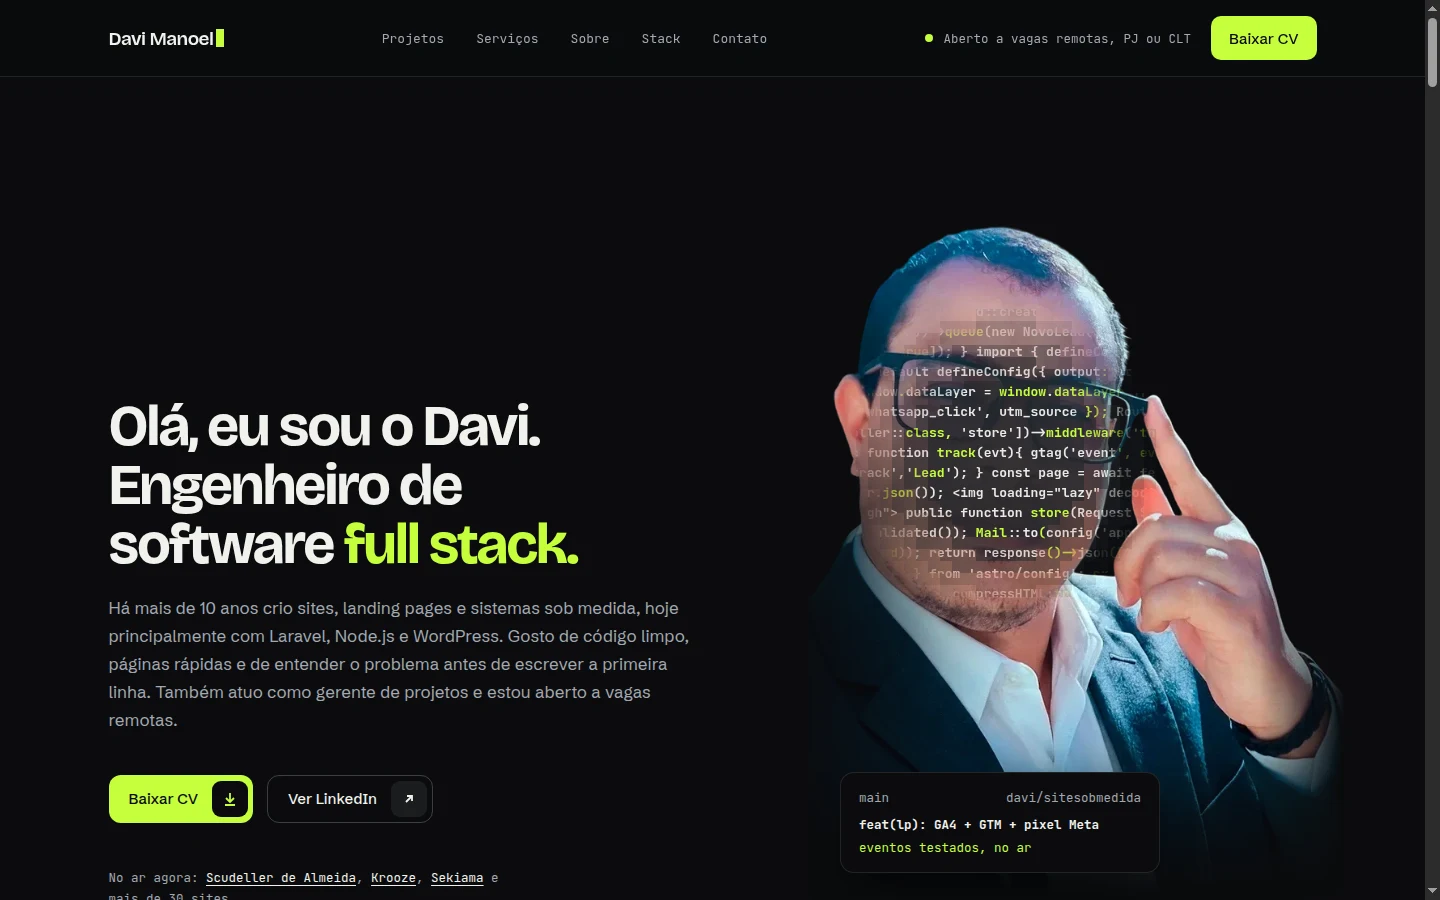
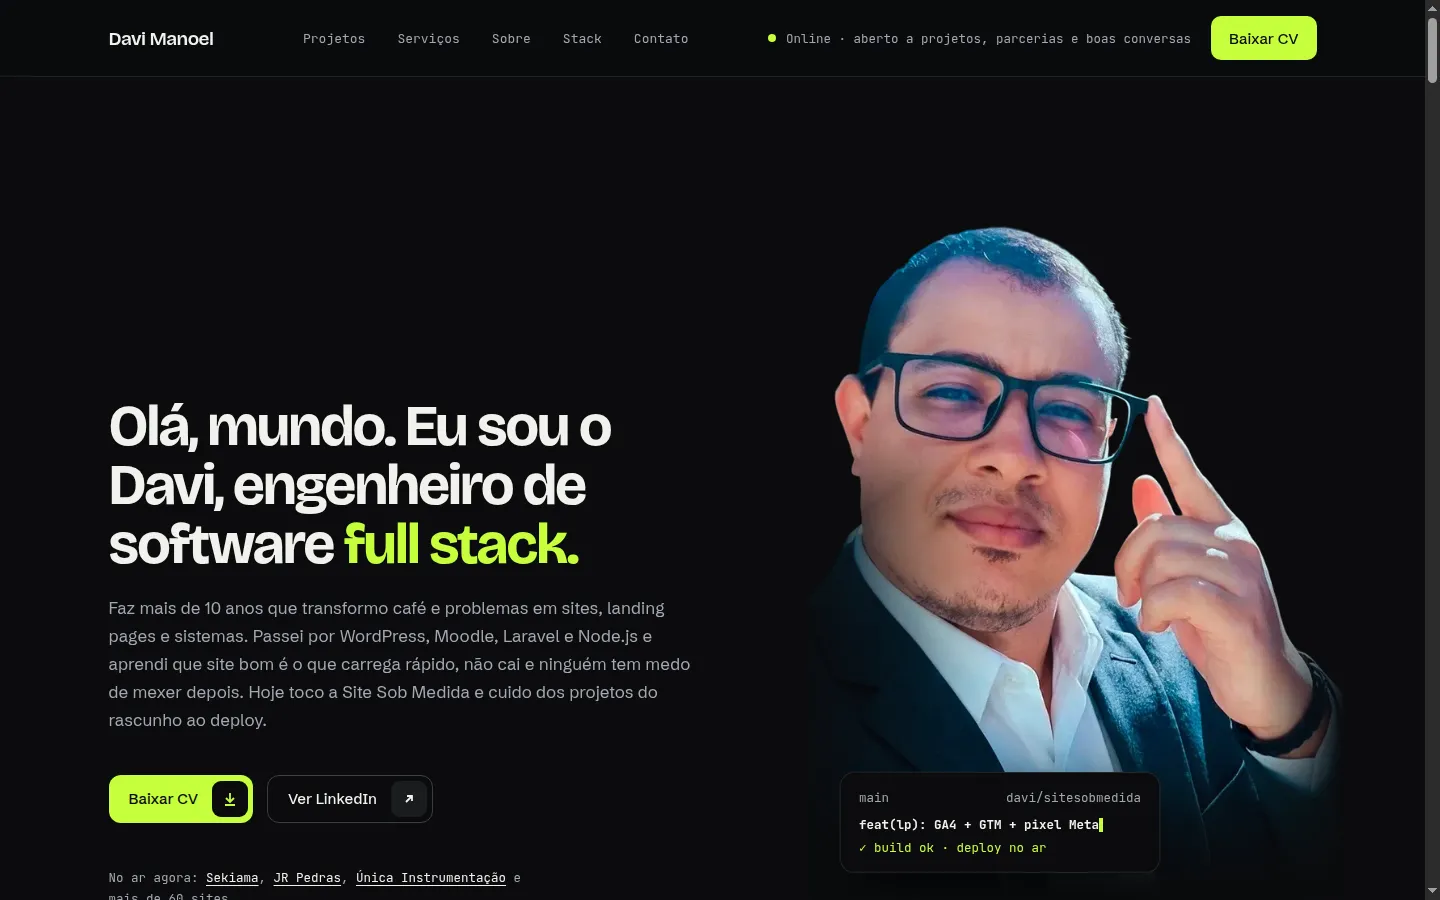
feat: update images, enhance 404 page with terminal-style error message, and improve site metadata handling

diff --git a/src/styles/global.css b/src/styles/global.css
@@ -76,6 +76,8 @@ main:focus { outline: none; }
    ================================================================== */
 
 .btn { white-space: nowrap; display: inline-flex; align-items: center; gap: 14px; min-height: 48px; padding: 5px 5px 5px 20px; border-radius: 12px; font-size: 15px; font-weight: 500; text-decoration: none; transition: transform 0.35s var(--ease), box-shadow 0.35s var(--ease), background 0.2s, border-color 0.2s; }
+/* sem ícone, o respiro da direita fica igual ao da esquerda */
+.btn:not(.btn-sm):not(:has(.ic)) { padding-right: 20px; }
 .btn .ic { width: 36px; height: 36px; border-radius: 9px; display: grid; place-items: center; transition: transform 0.35s var(--ease); }
 .btn:hover .ic { transform: translateX(4px); }
 .dm .btn-lime, .dm .btn-lime:hover { background: var(--lime); color: var(--on-lime); }
@@ -415,6 +417,30 @@ details.acc summary:hover .ttl { color: var(--lime); }
 .footer-bottom { display: flex; flex-wrap: wrap; justify-content: space-between; gap: 12px; margin-top: 72px; padding: 22px 0; border-top: 1px solid var(--line); }
 .clock { color: var(--ink); }
 .giant { font-family: var(--f-display); font-weight: 700; letter-spacing: -0.06em; font-size: clamp(64px, 13vw, 200px); line-height: 0.78; margin: 16px 0 0; white-space: nowrap; text-align: center; color: var(--lime); }
+
+/* ==================================================================
+   Página 404 (terminal com o git checkout que falhou)
+   ================================================================== */
+
+.nf {
+  min-height: 100svh;
+  display: flex;
+  background-image:
+    radial-gradient(50% 45% at 80% 28%, rgba(198, 255, 61, 0.07), transparent 70%),
+    linear-gradient(var(--line) 1px, transparent 1px),
+    linear-gradient(90deg, var(--line) 1px, transparent 1px);
+  background-size: auto, 48px 48px, 48px 48px;
+}
+.nf-in { flex: 1; display: flex; flex-direction: column; gap: 48px; width: 100%; padding-top: 16px; padding-bottom: 28px; }
+.nf-body { margin: auto 0; max-width: 780px; }
+.nf-code { font-size: clamp(112px, 20vw, 280px); line-height: 0.8; letter-spacing: -0.06em; color: var(--lime); }
+.nf-title { font-size: clamp(32px, 4.4vw, 60px); line-height: 1.02; margin-top: 28px; }
+.nf-term { margin-top: 36px; border: 1px solid var(--line-strong); border-radius: 14px; background: #121418; overflow: hidden; box-shadow: 0 30px 60px -28px rgba(0, 0, 0, 0.9); }
+.nf-term-head { display: flex; align-items: center; gap: 14px; height: 38px; padding: 0 14px; background: #1b1e23; border-bottom: 1px solid var(--line); font-family: var(--f-mono); font-size: 12px; color: var(--mute); }
+.nf-term-body { margin: 0; padding: 18px 20px; font-family: var(--f-mono); font-size: 14px; line-height: 1.8; color: var(--ink); white-space: pre-wrap; overflow-wrap: anywhere; }
+.nf-err { color: var(--mute); }
+.nf .actions { margin-top: 36px; }
+.nf-foot { margin: 0; }
 
 /* ==================================================================
    Responsivo e movimento reduzido

diff --git a/src/data/site.ts b/src/data/site.ts
@@ -274,7 +274,7 @@ export const CAREER = [
   },
   {
     from: '2017',
-    to: '2025',
+    to: 'hoje',
     hash: '3c88e17',
     where: 'Freelancer',
     role: 'Desenvolvedor full stack',

diff --git a/README.md b/README.md
@@ -1,6 +1,6 @@
 <div align="center">
 
-<img src=".github/assets/desktop-hero.webp" alt="Página inicial do site: à esquerda o título “Olá, eu sou o Davi. Engenheiro de software full stack.”; à direita a foto do Davi com trechos de código revelados sob o cursor." width="100%">
+<img src=".github/assets/desktop-hero.webp" alt="Página inicial do site: à esquerda o título “Olá, mundo. Eu sou o Davi, engenheiro de software full stack.”; à direita a foto do Davi e um cartão de commit com “build ok · deploy no ar”." width="100%">
 
 # Davi Manoel · site pessoal
 
@@ -9,8 +9,8 @@ feito para carregar rápido até no 4G.
 
 [![Astro 7](https://img.shields.io/badge/Astro-7-0b0c0e?style=flat-square&logo=astro&logoColor=c6ff3d)](https://astro.build)
 [![TypeScript strict](https://img.shields.io/badge/TypeScript-strict-0b0c0e?style=flat-square&logo=typescript&logoColor=c6ff3d)](tsconfig.json)
-[![JS no navegador](https://img.shields.io/badge/JS_no_navegador-2%2C3_kB-c6ff3d?style=flat-square&labelColor=0b0c0e)](#em-números)
-[![Primeira carga](https://img.shields.io/badge/primeira_carga-252_kB-c6ff3d?style=flat-square&labelColor=0b0c0e)](#em-números)
+[![JS no navegador](https://img.shields.io/badge/JS_no_navegador-2%2C9_kB-c6ff3d?style=flat-square&labelColor=0b0c0e)](#em-números)
+[![Primeira carga](https://img.shields.io/badge/primeira_carga-278_kB-c6ff3d?style=flat-square&labelColor=0b0c0e)](#em-números)
 [![Node](https://img.shields.io/badge/node-%E2%89%A522.23-0b0c0e?style=flat-square&logo=nodedotjs&logoColor=c6ff3d)](.nvmrc)
 
 [LinkedIn](https://www.linkedin.com/in/davi-manoel/) · [Site Sob Medida](https://www.sitesobmedida.com.br/) · [GitHub](https://github.com/sondavi1991)
@@ -25,20 +25,20 @@ Medido no build de produção, primeira visita em desktop, sem cache:
 
 | Métrica | Valor |
 | --- | --- |
-| Requisições | **8** |
-| Peso transferido | **~252 kB** (comprimido) |
-| JavaScript | **2,3 kB**, embutido no HTML, sem framework |
+| Requisições | **9** |
+| Peso transferido | **~278 kB** (comprimido) |
+| JavaScript | **2,9 kB**, embutido no HTML, sem framework |
 | Fontes | 3 arquivos variáveis WOFF2, servidos pelo próprio site |
-| Imagens | WebP responsivo, só o hero carrega de imediato |
+| Imagens | WebP responsivo; a foto do hero carrega de imediato e os prints dos projetos, sob demanda |
 
 ```mermaid
 %%{init: {'theme':'base','themeVariables':{'pie1':'#c6ff3d','pie2':'#7a9a26','pie3':'#3d4a14','pie4':'#a3a8b0','pieStrokeColor':'#0b0c0e','pieOuterStrokeColor':'#0b0c0e','pieTitleTextSize':'16px','pieSectionTextColor':'#0b0c0e','pieLegendTextColor':'#a3a8b0'}}}%%
 pie showData
     title Primeira carga por tipo (kB comprimidos)
     "Fontes" : 155.1
-    "Imagens" : 79.2
-    "HTML + JS embutido" : 11.7
-    "CSS" : 5.7
+    "Imagens" : 100.6
+    "HTML + JS embutido" : 14.7
+    "CSS" : 7.1
 ```
 
 ## Telas
@@ -50,7 +50,11 @@ pie showData
 </p>
 
 <p align="center">
-  <img src=".github/assets/desktop-stack.webp" alt="Seção Stack: um teclado com as tecnologias agrupadas e, ao lado, um painel que explica a tecla selecionada (Laravel)." width="100%">
+  <img src=".github/assets/desktop-projetos.webp" alt="Seção Projetos: card da Única Instrumentação com segmento, ano, descrição e tecnologias; à direita, o print do site dentro de uma janela de navegador sobre um fundo quadriculado." width="100%">
+</p>
+
+<p align="center">
+  <img src=".github/assets/desktop-stack.webp" alt="Seção Stack: um teclado com as tecnologias agrupadas em seis linhas, de Linguagens a Dados e IA, e ao lado um painel que explica a tecla selecionada (Laravel)." width="100%">
 </p>
 
 ## Destaques
@@ -65,6 +69,9 @@ pie showData
   anéis, o texto do Sobre acende palavra por palavra, a carreira é digitada como um `git log` e o
   nome do rodapé sobe letra a letra. Tudo com `animation-timeline` e versão estática onde o
   navegador não suporta.
+- **Projetos em janela de navegador.** Cada print entra numa janela desenhada em CSS, com a
+  barra de endereço mostrando o domínio do cliente. Projeto que ainda não está no ar aparece sem o
+  botão de abrir e com “em breve no ar” na barra.
 - **Menu lateral no celular** com `<dialog>` nativo: prende o foco, fecha com Esc ou tocando fora
   e devolve o foco ao botão. O menu destaca a seção que está na tela.
 - **Teclado de stack interativo.** Funciona com mouse, toque e Tab. No celular, o painel de
@@ -72,6 +79,8 @@ pie showData
 - **Fontes sem depender do Google.** Bricolage Grotesque, Schibsted Grotesk e JetBrains Mono são baixadas no
   build (com o eixo de tamanho óptico da Bricolage) e servidas pelo próprio site, com `preload` e
   fonte reserva calibrada para a página não “pular” enquanto carrega.
+- **404 com cara de terminal.** Um link quebrado mostra o `git checkout` que falhou, com o
+  endereço que a pessoa tentou abrir, e botões de volta para o início.
 - **Conteúdo separado do layout.** Textos, projetos, stack, carreira e FAQ moram num único arquivo
   de dados.
 
@@ -141,6 +150,7 @@ npm run dev        # http://localhost:4321
 │   ├── data/site.ts          # todo o conteúdo do site
 │   ├── layouts/Layout.astro  # <head>, metatags e fontes
 │   ├── pages/index.astro     # monta as seções
+│   ├── pages/404.astro       # página de “commit não encontrado”
 │   └── styles/global.css     # tokens e estilos, por seção
 └── astro.config.mjs          # domínio e fontes
 ```
@@ -151,8 +161,9 @@ Quase tudo que aparece na página está em [`src/data/site.ts`](src/data/site.ts
 
 - `SITE`: nome, status, links e o endereço do currículo (`cvUrl`).
 - `PROJECTS`: os cards de projetos. Para trocar um print, coloque a imagem em
-  `src/assets/projetos/` e importe no topo do arquivo.
-- `LIVE_SITES`, `STACK`, `SERVICES`, `CAREER`, `REVIEWS` e `FAQ`: as demais seções.
+  `src/assets/projetos/` e importe no topo do arquivo. Sem `url`, o card fica sem o botão
+  “Abrir site” (projeto que ainda não está no ar).
+- `LIVE_SITES`, `STACK`, `SERVICES`, `CAREER`, `HOUSE_RULES` e `FAQ`: as demais seções.
 
 Cores e espaçamentos ficam nas custom properties do bloco `.dm` em
 [`src/styles/global.css`](src/styles/global.css). Para trocar uma fonte, mude o `name` dela em
